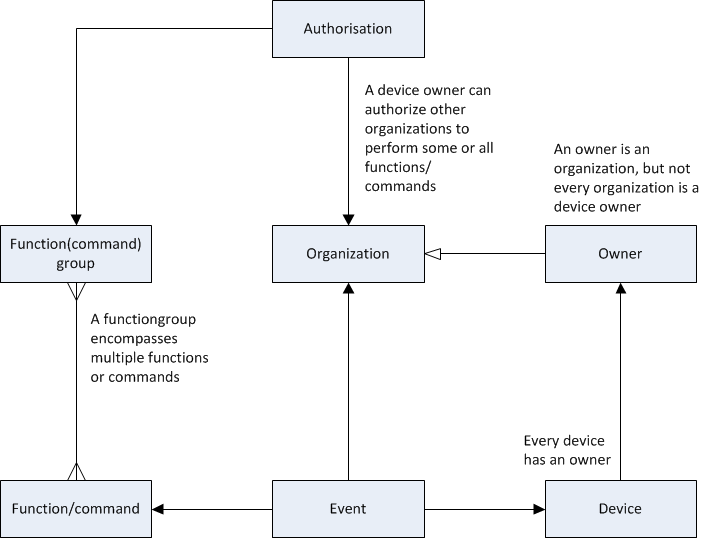
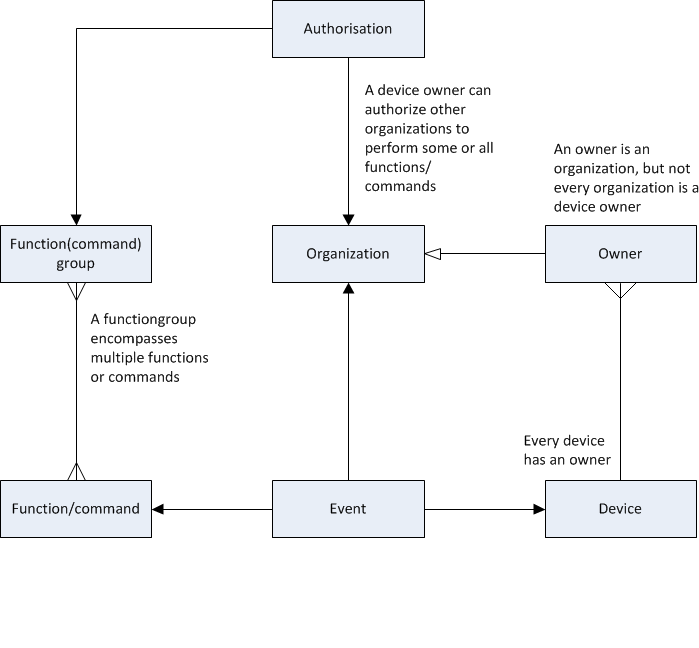
FLEX-3925 ~ Documents multiple owners for devices.

diff --git a/Architecture/Logical-Authorisation-Model.md b/Architecture/Logical-Authorisation-Model.md
@@ -26,7 +26,7 @@ The functions an organisation can execute on a device are determined by the func
 - Configuration-group (Functions to configure devices)
 - Monitoring-group (Functions to monitor devices)
 
-This structure provides maximum flexibility when assigning rights to devices. Devices always belong to an Owner. An owner is an organisation, but not every organisation is an owner. The entity "Event", at the bottom of the image, is the execution of a function by an organisation on a device.
+This structure provides maximum flexibility when assigning rights to devices. Devices always belong to an Owner. An owner is an organisation, but not every organisation is an owner. A device can have more than one owner. The entity "Event", at the bottom of the image, is the execution of a function by an organisation on a device.
 
 Details like device-type, device-status, etc. have been omitted from this model.
 
